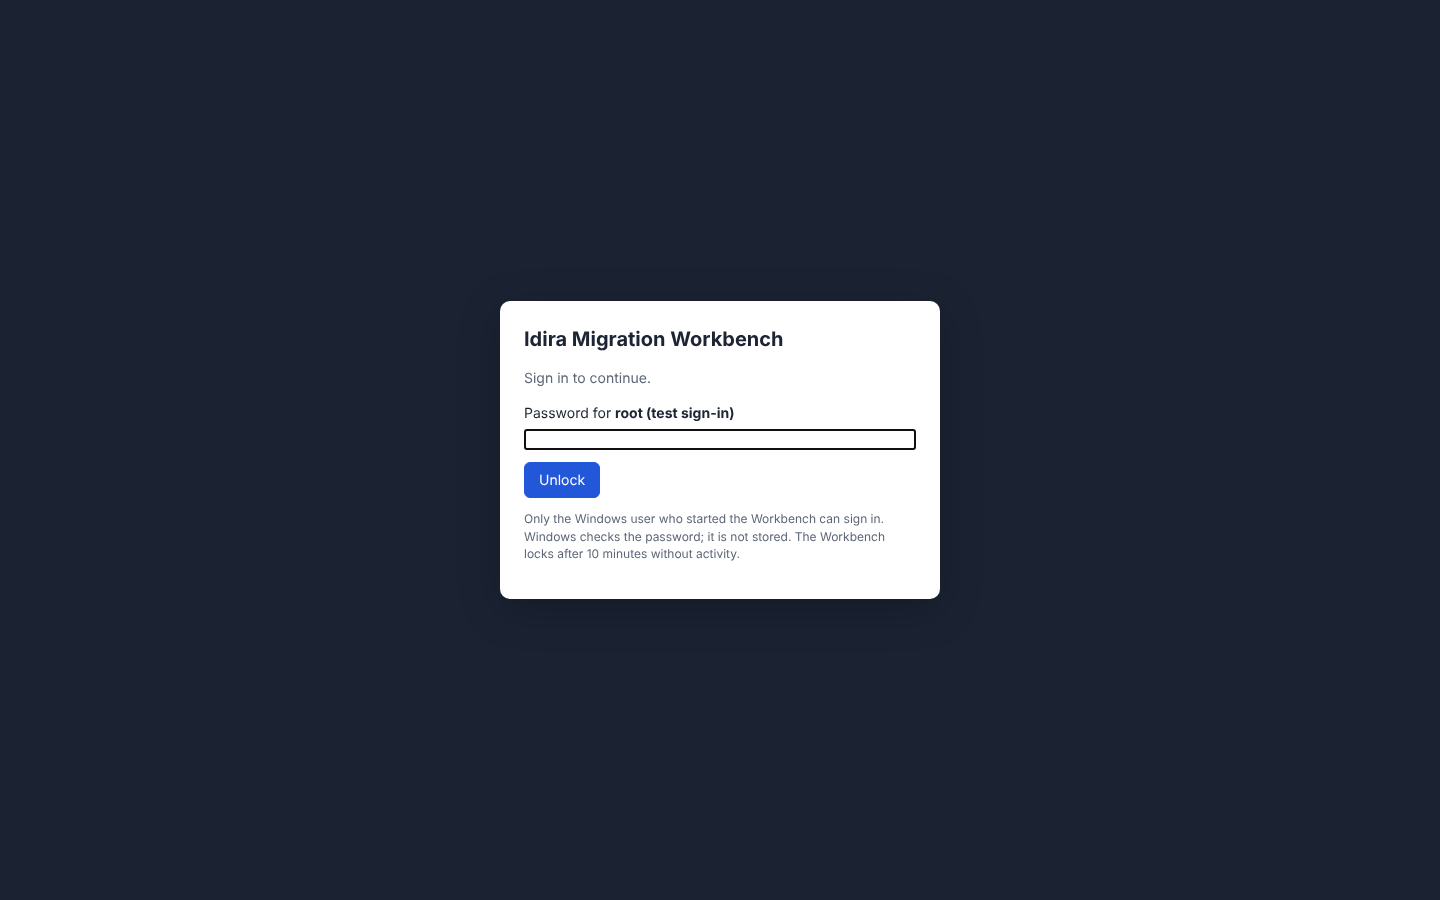
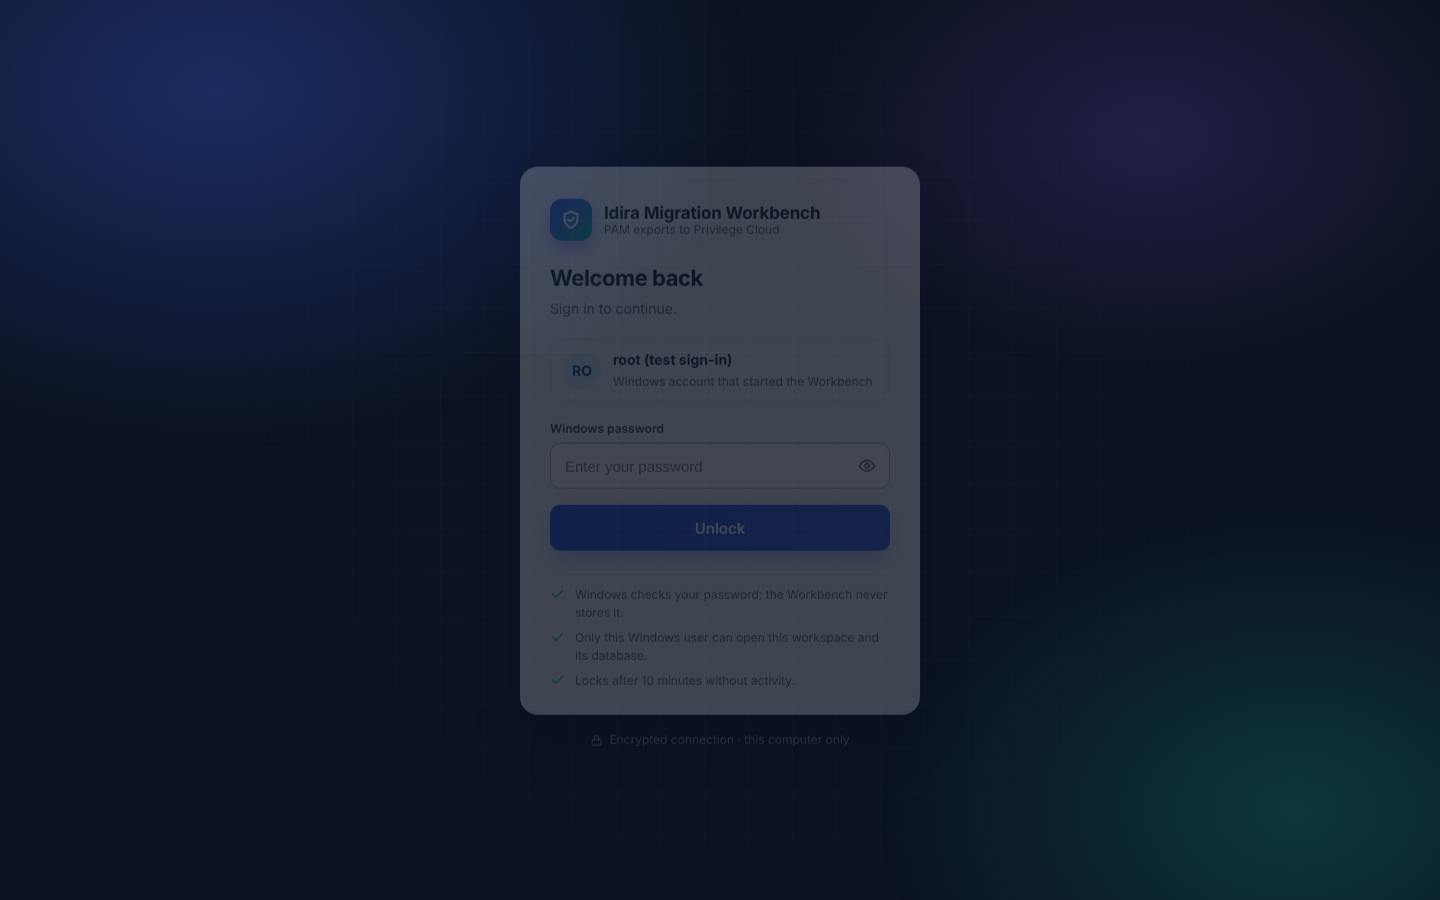
Modern sign-in screen
Branded card on a dark gradient, account chip with initials, show/hide password,
Caps Lock hint, inline error with a red field, spinner while Windows checks the password.

Claude-Session: https://claude.ai/code/session_01UhFVM4wyFa1r5tgz8CuW9g

Changed region(s): [[0.3438, 0.1867, 0.6562, 0.8089], [0.0312, 0.0, 0.2812, 0.2489]]

diff --git a/pam2pc/ui/static/index.html b/pam2pc/ui/static/index.html
@@ -108,6 +108,59 @@ input.chk-bad { border-color: var(--warn); background: var(--warn-bg); }
 .bulk h4 { margin: 0 0 8px; font-size: 13px; }
 .bulk label { display: block; font-size: 12px; color: var(--muted); margin: 4px 0; }
 .bulk label input, .bulk label select { width: 100%; }
+/* Sign-in screen */
+#login.overlay { background: #0b1220; overflow: auto; padding: 24px 16px; }
+#login::before { content: ""; position: fixed; inset: 0; pointer-events: none;
+  background: radial-gradient(900px 600px at 15% 10%, rgba(59,91,219,.35), transparent 60%),
+              radial-gradient(700px 500px at 90% 90%, rgba(20,184,166,.22), transparent 60%),
+              radial-gradient(600px 400px at 80% 15%, rgba(139,92,246,.18), transparent 60%); }
+#login::after { content: ""; position: fixed; inset: 0; pointer-events: none; opacity: .5;
+  background-image: linear-gradient(rgba(255,255,255,.035) 1px, transparent 1px), linear-gradient(90deg, rgba(255,255,255,.035) 1px, transparent 1px);
+  background-size: 44px 44px; mask-image: radial-gradient(circle at center, #000 30%, transparent 75%); }
+.signin { position: relative; z-index: 1; width: 400px; max-width: 100%; animation: rise .35s ease-out; }
+@keyframes rise { from { opacity: 0; transform: translateY(10px); } to { opacity: 1; transform: none; } }
+.signin-card { background: rgba(255,255,255,.97); border-radius: 18px; padding: 32px 30px 26px;
+  box-shadow: 0 24px 60px rgba(0,0,0,.45), 0 0 0 1px rgba(255,255,255,.06); }
+.brand { display: flex; align-items: center; gap: 12px; margin-bottom: 22px; }
+.brand-mark { width: 42px; height: 42px; border-radius: 12px; display: grid; place-items: center; flex-shrink: 0;
+  background: linear-gradient(135deg, #3b5bdb, #14b8a6); box-shadow: 0 6px 16px rgba(59,91,219,.4); }
+.brand-mark svg { width: 22px; height: 22px; }
+.brand-name { font-size: 17px; font-weight: 650; letter-spacing: -.01em; line-height: 1.2; }
+.brand-name small { display: block; font-size: 12px; font-weight: 400; color: var(--muted); letter-spacing: 0; }
+.signin h2 { font-size: 22px; margin: 0 0 4px; letter-spacing: -.02em; }
+.signin .why { color: var(--muted); margin: 0 0 20px; }
+.who { display: flex; align-items: center; gap: 12px; padding: 10px 12px; border: 1px solid var(--line); border-radius: 12px; background: #f7f8fb; margin-bottom: 18px; }
+.avatar { width: 38px; height: 38px; border-radius: 50%; display: grid; place-items: center; flex-shrink: 0;
+  background: linear-gradient(135deg, #e0e7ff, #ccfbf1); color: #1e3a8a; font-weight: 700; font-size: 14px; }
+.who b { display: block; font-size: 14px; word-break: break-all; }
+.who span { font-size: 12px; color: var(--muted); }
+.field-label { display: block; font-size: 12px; font-weight: 600; color: #39424f; margin-bottom: 6px; }
+.pw-wrap { position: relative; }
+.signin input[type=password], .signin input[type=text]#login-pw { width: 100%; height: 46px; padding: 0 46px 0 14px; font-size: 15px;
+  border: 1.5px solid var(--line); border-radius: 10px; background: #fff; transition: border-color .15s, box-shadow .15s; }
+.signin input#login-pw:focus { outline: none; border-color: var(--accent); box-shadow: 0 0 0 4px rgba(35,87,217,.15); }
+.signin.error input#login-pw, .signin.error input#login-pw:focus { border-color: var(--err); box-shadow: 0 0 0 4px rgba(180,35,24,.12); }
+.pw-toggle { position: absolute; right: 6px; top: 6px; width: 34px; height: 34px; border: 0; background: none; border-radius: 8px;
+  cursor: pointer; color: var(--muted); display: grid; place-items: center; }
+.pw-toggle:hover { background: #f0f2f6; color: var(--ink); }
+.pw-toggle svg { width: 18px; height: 18px; }
+.caps { font-size: 12px; color: var(--warn); margin-top: 6px; }
+#login-msg:empty { display: none; }
+#login-msg { display: flex; gap: 8px; align-items: flex-start; margin-top: 12px; padding: 10px 12px; border-radius: 10px;
+  background: var(--err-bg); color: var(--err); font-size: 13px; }
+.signin-go { width: 100%; height: 46px; margin-top: 16px; border: 0; border-radius: 10px; font: inherit; font-size: 15px; font-weight: 600;
+  color: #fff; cursor: pointer; background: linear-gradient(135deg, #2357d9, #3b5bdb); box-shadow: 0 8px 20px rgba(35,87,217,.35);
+  display: flex; align-items: center; justify-content: center; gap: 8px; transition: transform .1s, box-shadow .15s, filter .15s; }
+.signin-go:hover { filter: brightness(1.06); box-shadow: 0 10px 24px rgba(35,87,217,.42); }
+.signin-go:active { transform: translateY(1px); }
+.signin-go:disabled { opacity: .75; cursor: default; }
+.spinner { width: 16px; height: 16px; border: 2px solid rgba(255,255,255,.45); border-top-color: #fff; border-radius: 50%; animation: spin .7s linear infinite; }
+@keyframes spin { to { transform: rotate(360deg); } }
+.signin-notes { list-style: none; padding: 16px 0 0; margin: 18px 0 0; border-top: 1px solid var(--line); display: grid; gap: 8px; }
+.signin-notes li { display: flex; gap: 10px; align-items: flex-start; font-size: 12px; color: var(--muted); }
+.signin-notes svg { width: 15px; height: 15px; flex-shrink: 0; margin-top: 1px; color: #14b8a6; }
+.signin-foot { text-align: center; color: #8d97ab; font-size: 12px; margin-top: 16px; display: flex; justify-content: center; gap: 6px; align-items: center; }
+.signin-foot svg { width: 13px; height: 13px; }
 .busy { position: fixed; inset: 0; background: rgba(255,255,255,.6); display: flex; align-items: center; justify-content: center;
   font-weight: 600; z-index: 20; }
 </style>
@@ -143,13 +196,27 @@ input.chk-bad { border-color: var(--warn); background: var(--warn-bg); }
 </div>
 <div id="drawer" class="drawer hidden"></div>
 <div id="busy" class="busy hidden">Working…</div>
-<div id="login" class="overlay hidden"><form class="dialog" id="login-form" autocomplete="off">
-  <h2>Idira Migration Workbench</h2>
-  <p class="muted" id="login-why">Sign in to continue.</p>
-  <label>Password for <b id="login-user"></b><input type="password" id="login-pw" autocomplete="current-password"></label>
-  <div class="row"><button class="btn primary" type="submit" id="login-go">Unlock</button><span id="login-msg" class="small"></span></div>
-  <p class="muted small">Only the Windows user who started the Workbench can sign in. Windows checks the password; it is not stored.
-    The Workbench locks after <span id="login-idle">10</span> minutes without activity.</p></form></div>
+<div id="login" class="overlay hidden"><div class="signin" id="signin">
+  <form class="signin-card" id="login-form" autocomplete="off">
+    <div class="brand"><div class="brand-mark"><svg viewBox="0 0 24 24" fill="none" stroke="#fff" stroke-width="2.2" stroke-linecap="round" stroke-linejoin="round"><path d="M12 3l7 3v5c0 4.5-3 8.3-7 10-4-1.7-7-5.5-7-10V6l7-3z"/><path d="M9 12l2 2 4-4"/></svg></div>
+      <div class="brand-name">Idira Migration Workbench<small>PAM exports to Privilege Cloud</small></div></div>
+    <h2>Welcome back</h2>
+    <p class="why" id="login-why">Sign in to continue.</p>
+    <div class="who"><div class="avatar" id="login-avatar">?</div><div><b id="login-user"></b><span>Windows account that started the Workbench</span></div></div>
+    <label class="field-label" for="login-pw">Windows password</label>
+    <div class="pw-wrap"><input type="password" id="login-pw" autocomplete="current-password" placeholder="Enter your password" required>
+      <button type="button" class="pw-toggle" id="pw-toggle" title="Show or hide the password" aria-label="Show password"><svg viewBox="0 0 24 24" fill="none" stroke="currentColor" stroke-width="2" stroke-linecap="round" stroke-linejoin="round"><path d="M2 12s3.5-7 10-7 10 7 10 7-3.5 7-10 7S2 12 2 12z"/><circle cx="12" cy="12" r="3"/></svg></button></div>
+    <div class="caps hidden" id="login-caps">Caps Lock is on</div>
+    <div id="login-msg" role="alert"></div>
+    <button class="signin-go" type="submit" id="login-go"><span>Unlock</span></button>
+    <ul class="signin-notes">
+      <li><svg viewBox="0 0 24 24" fill="none" stroke="currentColor" stroke-width="2" stroke-linecap="round" stroke-linejoin="round"><path d="M20 6L9 17l-5-5"/></svg><span>Windows checks your password; the Workbench never stores it.</span></li>
+      <li><svg viewBox="0 0 24 24" fill="none" stroke="currentColor" stroke-width="2" stroke-linecap="round" stroke-linejoin="round"><path d="M20 6L9 17l-5-5"/></svg><span>Only this Windows user can open this workspace and its database.</span></li>
+      <li><svg viewBox="0 0 24 24" fill="none" stroke="currentColor" stroke-width="2" stroke-linecap="round" stroke-linejoin="round"><path d="M20 6L9 17l-5-5"/></svg><span>Locks after <span id="login-idle">10</span> minutes without activity.</span></li>
+    </ul>
+  </form>
+  <div class="signin-foot"><svg viewBox="0 0 24 24" fill="none" stroke="currentColor" stroke-width="2" stroke-linecap="round" stroke-linejoin="round"><rect x="4" y="11" width="16" height="10" rx="2"/><path d="M8 11V7a4 4 0 0 1 8 0v4"/></svg><span>Encrypted connection · this computer only</span></div>
+</div></div>
 <div id="endbox" class="overlay modal hidden"><div class="dialog">
   <h2>End session?</h2>
   <p>Ending the session:</p>
@@ -204,23 +271,36 @@ function showLogin(why) {
   $("#login-why").textContent = why || "Sign in to continue.";
   $("#login").classList.remove("hidden");
   $("#main").innerHTML = ""; closeDrawer();
-  $("#login-msg").innerHTML = "";
-  $("#login-pw").value = ""; $("#login-pw").focus();
+  $("#login-msg").innerHTML = ""; $("#signin").classList.remove("error");
+  $("#login-pw").value = ""; $("#login-pw").type = "password"; $("#login-pw").focus();
 }
 async function checkSession() {
   const r = await fetch("/api/session", { headers: { "X-Pam2pc": "1" } });
   if (r.status === 401) { document.body.innerHTML = "<p style='padding:30px'>Session ended. Restart the Workbench to get a new link.</p>"; return null; }
   return r.json();
 }
+$("#pw-toggle").onclick = () => {
+  const pw = $("#login-pw"), show = pw.type === "password";
+  pw.type = show ? "text" : "password"; $("#pw-toggle").setAttribute("aria-label", show ? "Hide password" : "Show password"); pw.focus();
+};
+["keydown", "keyup"].forEach(ev => $("#login-pw").addEventListener(ev, (e) => {
+  if (e.getModifierState) $("#login-caps").classList.toggle("hidden", !e.getModifierState("CapsLock"));
+}));
+$("#login-pw").addEventListener("input", () => $("#signin").classList.remove("error"));
 $("#login-form").onsubmit = async (e) => {
   e.preventDefault();
+  const go = $("#login-go");
+  go.disabled = true; go.innerHTML = '<span class="spinner"></span><span>Checking…</span>';
   try {
     await api("/api/unlock", { password: $("#login-pw").value });
-    $("#login-pw").value = ""; $("#login-msg").innerHTML = "";
+    $("#login-pw").value = ""; $("#login-msg").innerHTML = ""; $("#signin").classList.remove("error");
     LOCKED = false; LAST_PING = Date.now();
     $("#login").classList.add("hidden");
     go(PAGE);
-  } catch (err) { $("#login-msg").innerHTML = `<span style="color:var(--err)">${esc(err.message)}</span>`; $("#login-pw").select(); }
+  } catch (err) {
+    $("#login-msg").innerHTML = `<span>⚠</span><span>${esc(err.message)}</span>`;
+    $("#signin").classList.add("error"); $("#login-pw").select();
+  } finally { go.disabled = false; go.innerHTML = "<span>Unlock</span>"; }
 };
 $("#lock").onclick = async () => { await api("/api/lock", {}).catch(() => {}); showLogin("Session locked."); };
 $("#logout").onclick = () => {
@@ -251,6 +331,9 @@ async function start() {
   const s = await checkSession();
   if (!s) return;
   $("#login-user").textContent = s.user;
+  const short = String(s.user || "").split(/[\\@ ]/).filter(Boolean);
+  const nm = (short.length > 1 && /\\/.test(s.user) ? short[1] : short[0]) || "?";
+  $("#login-avatar").textContent = nm.replace(/[^A-Za-z0-9]/g, "").slice(0, 2).toUpperCase() || "?";
   $("#login-idle").textContent = s.idle_minutes;
   if (s.locked) showLogin("Sign in to continue.");
   else { LOCKED = false; go("overview"); }

diff --git a/tests/ui_browser_test.js b/tests/ui_browser_test.js
@@ -42,6 +42,7 @@ const PASSWORD = process.env.PAM2PC_UI_TEST_PASSWORD || 'test-pass';
   await shot(page, '00_login');
   await signIn('wrong');
   await page.waitForSelector('#login-msg >> text=not right');
+  await page.waitForTimeout(300); await shot(page, '00_login_error');
   await signIn(PASSWORD);
   await page.waitForSelector('text=Welcome');
   await shot(page, '00_welcome');
